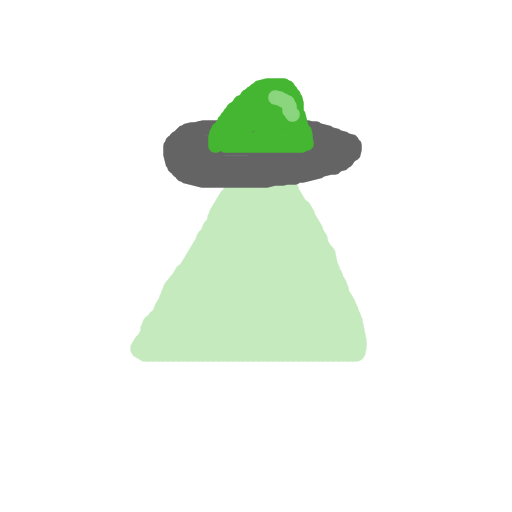
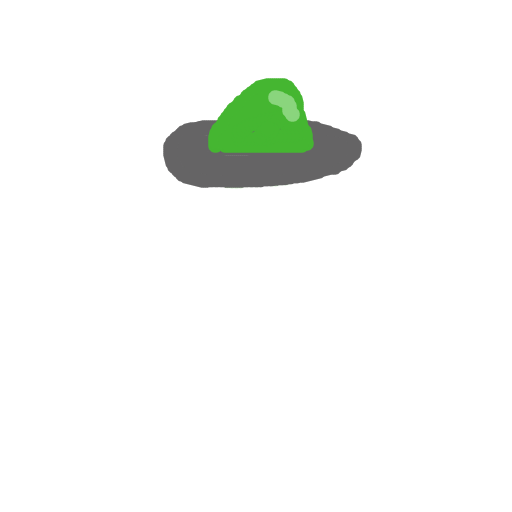
final ufo game

Changed region(s): [[0.25, 0.3438, 0.7188, 0.7188]]

diff --git a/Assignments/Project3/mySketch.js b/Assignments/Project3/mySketch.js
@@ -36,7 +36,7 @@ function setup() {
   wallright = new Sprite(width - 100, y, 20, 500, "static");
   scorezone = new Sprite(200, y + 150, 20, 200, "static");
 
-  machinecolor = color(random(255), random(255), random(255));
+  machinecolor = color(50,50,50);
   walltop.color = machinecolor;
   wallbot.color = machinecolor;
   wallleft.color = machinecolor;
@@ -45,13 +45,28 @@ function setup() {
   dropSprite();
 
   clawsprite = new Sprite(200, 200, 25, 100, "kinematic");
+  clawsprite.color = "#1dd13bff";
+
+  ufo = new Sprite(clawsprite.pos.x, clawsprite.pos.y, 25, 100, "kinematic");
+  ufo.image = 'ufo.png';
+
+  border = new Sprite(350, 350, "none");
+  border.scale.x = 1.5;
+  border.scale.y = 1.8;
+  //border.layer = -1;
+
+  border.image = 'plainborder.png';
+
   
+
 
   strokeJoin("round");
 }
 
 function draw() {
   claw();
+  ufo.pos.x = clawsprite.pos.x;
+  ufo.pos.y = clawsprite.pos.y;
 
   if (dropstage == 1){
 	if (clawsprite.pos.y < 520){
@@ -81,8 +96,11 @@ function draw() {
   }
 
 	fill(255);
-	text('Stored Prizes: ' + storeditems, 350, 650);
+	text('Stored Prizes: ' + storeditems, 350, 675);
 	clawsprite.overlap(ballgroup, clawGrab);
+
+  fill(color(20,20,20));
+  rect(50, 75, 200, 550);
 }
 
 function clawGrab(clawsprite, penta){
@@ -137,12 +155,13 @@ function dropSprite() {
   }
   
   penta.color = "#b7ebff";
-  //penta.image = 'capsule.png';
+  
   ballstorage.push(temprandom * 2);
   penta.d = random(20, 40);
   ballgroup.add(penta);
   numball++;
-  //penta.image.scale = temprandom*2;
+  //penta.image = 'capsule.png';
+  //penta.image.scale = penta.d/50;
 }
 
 function keyPressed() {

diff --git a/Assignments/Project3/index.html b/Assignments/Project3/index.html
@@ -21,7 +21,7 @@
 <body>   
 	<h2>Glue Stick Claw Game<br>
 	<span style="font-size: 20px">Created by Anna Godfrey, Fall 2025 for Interaction Design Studio II</span></h2>
-    <script src="sketch.js"></script>
+    <script src="mySketch.js"></script>
     <p>Arrow keys to move claw, Spacebar to drop claw/ drop payload<br>
     Click screen to spawn more balls</p>
 </body>
